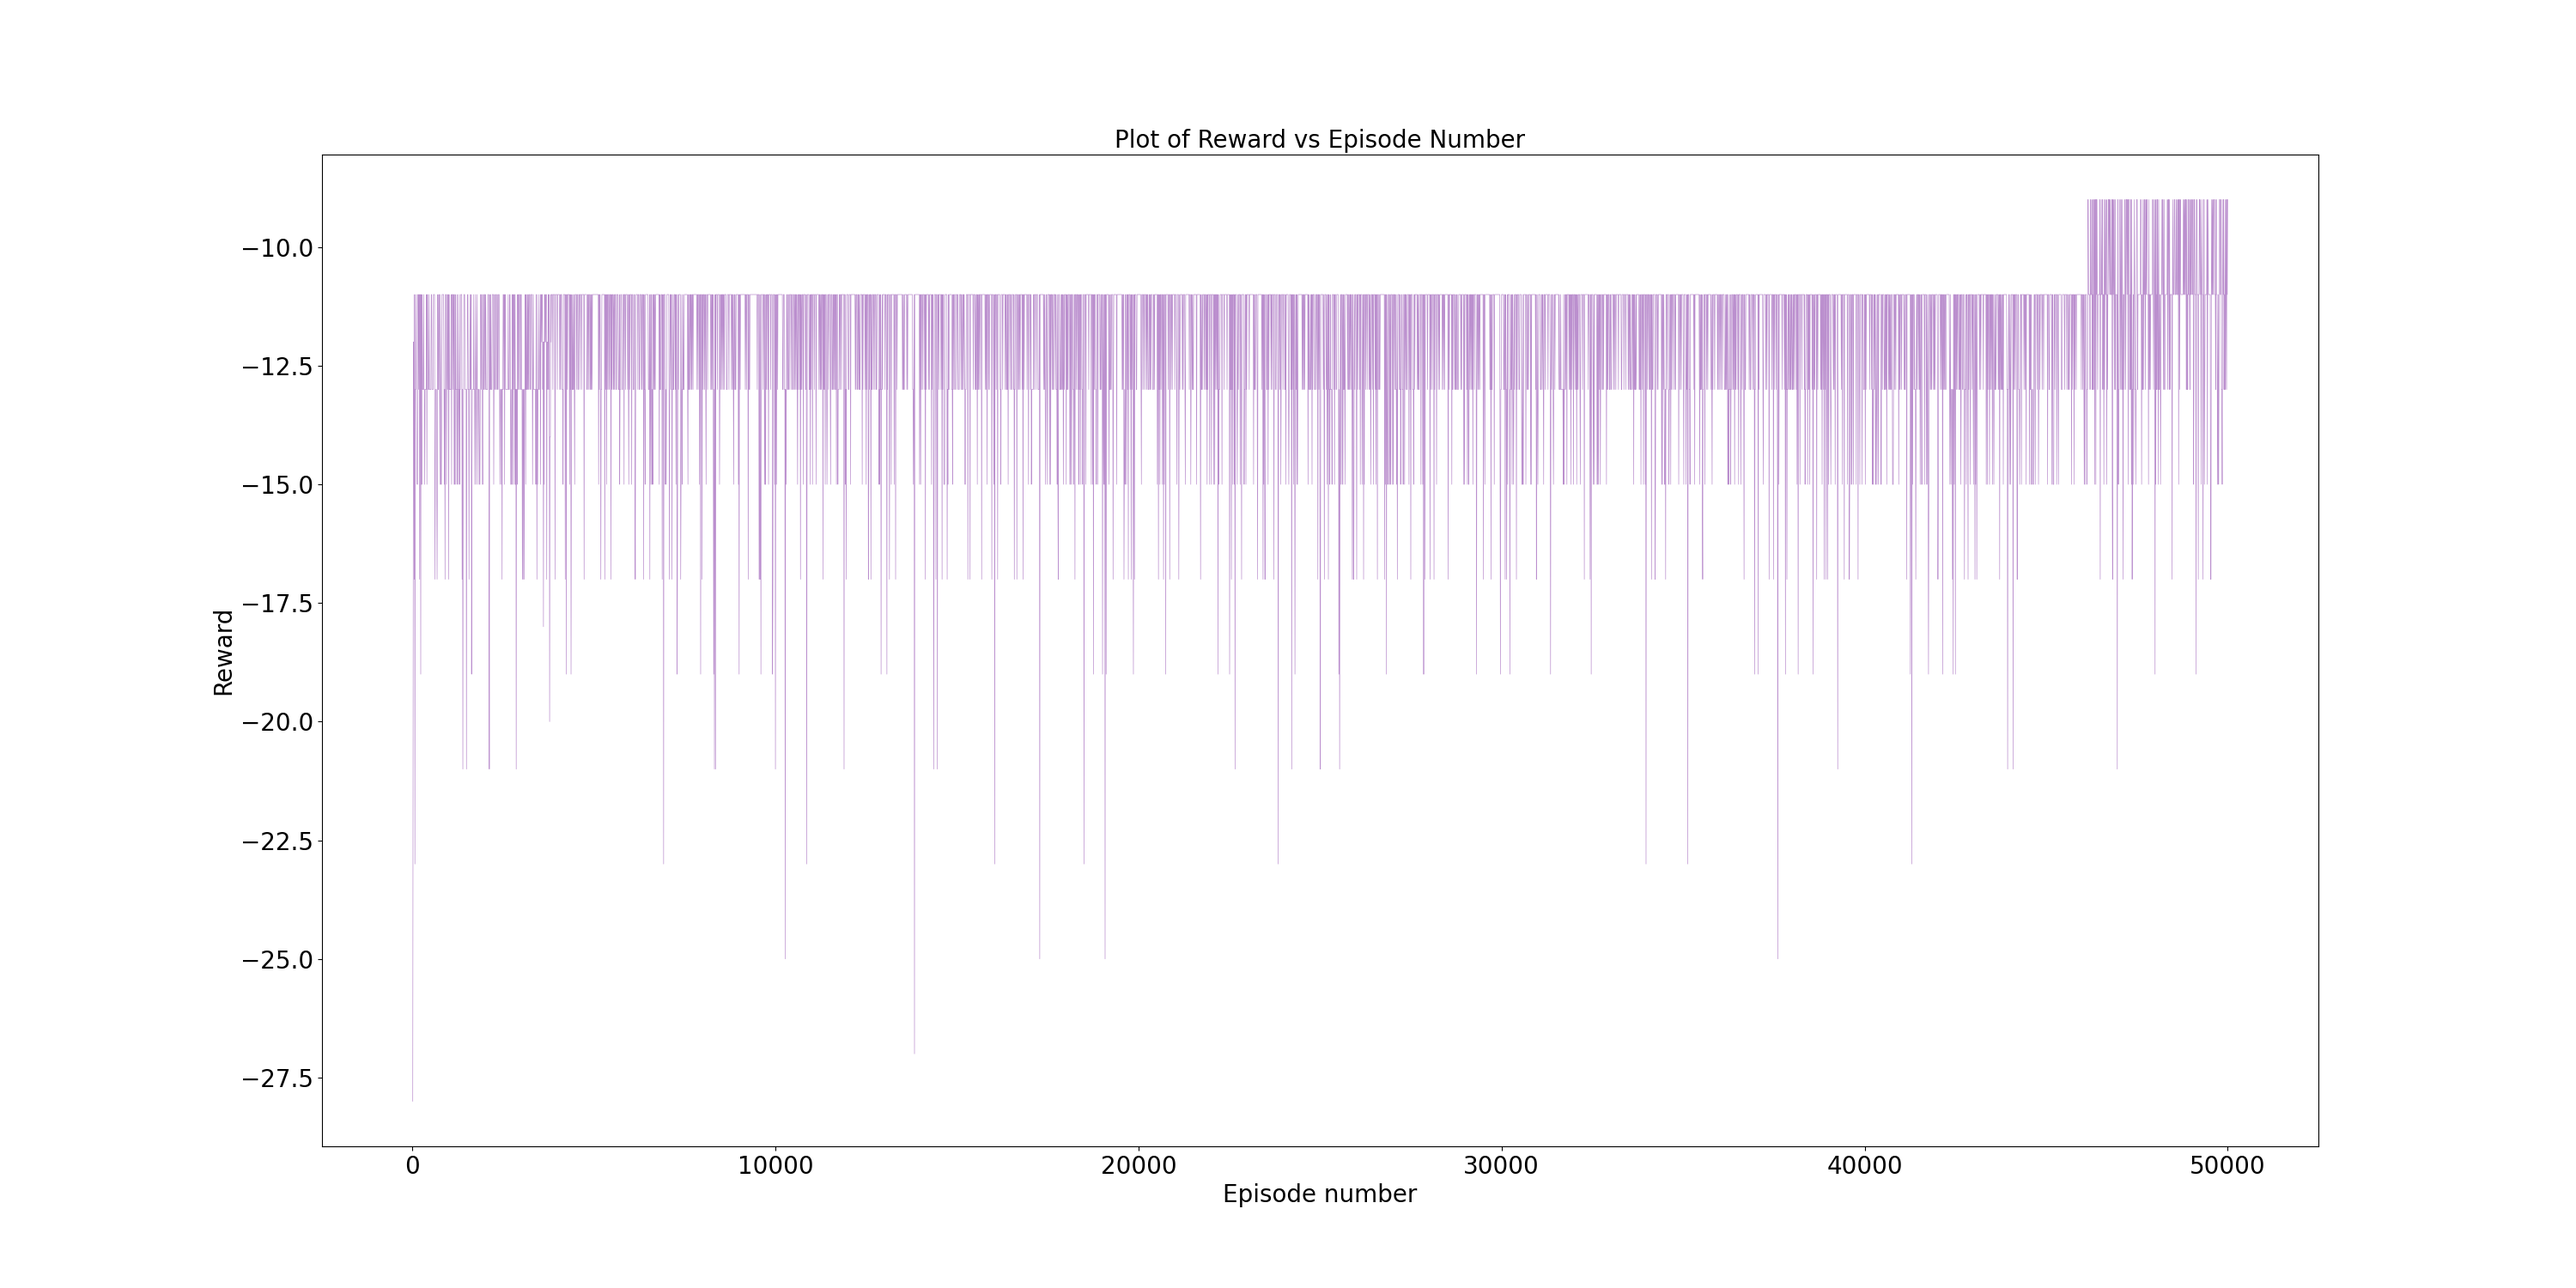
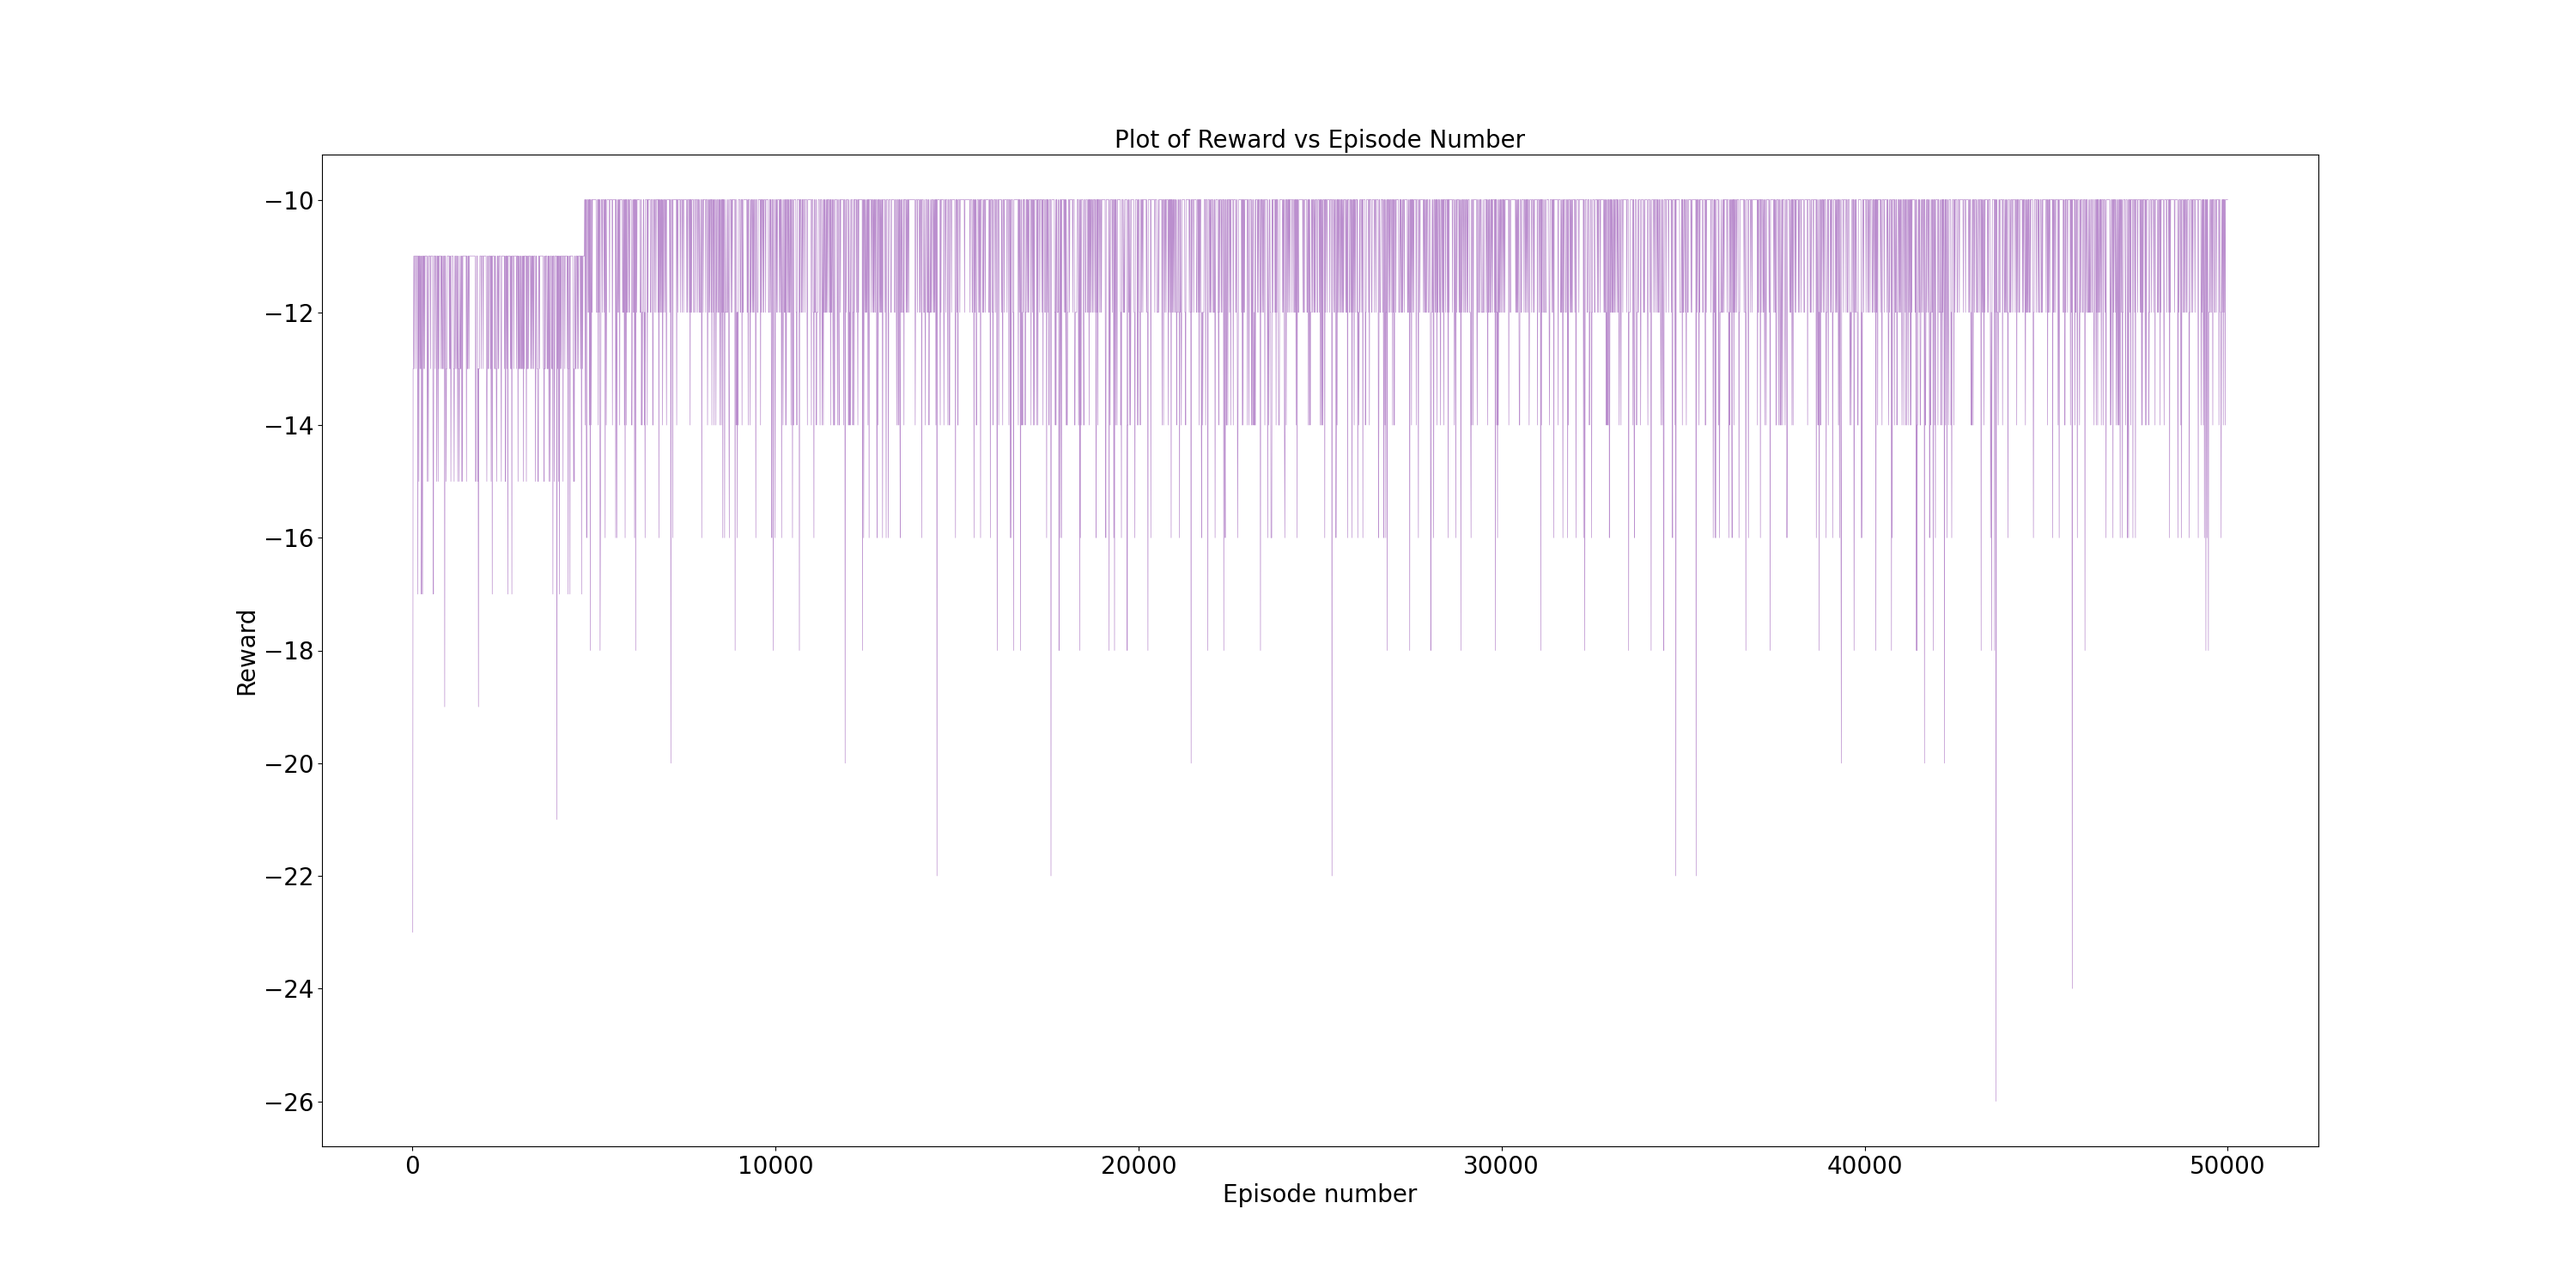
update on policy

diff --git a/RaceTrack Example/race_track.py b/RaceTrack Example/race_track.py
@@ -1,5 +1,7 @@
-import os
 import logging
+import os
+import pickle
+import sys
 from datetime import datetime
 
 import numpy as np
@@ -259,6 +261,8 @@ class Agent:
         for idx, possible_action in enumerate(actions):
             new_velocity = np.add(velocity, possible_action)
             if (new_velocity[0] <= 5 and new_velocity[0] >=0) and (new_velocity[1] <=5 and new_velocity[1] >= 0):
+                if new_velocity[0] == 0 and new_velocity[1] == 0:
+                    continue
                 indices_of_valid_acts.append(idx)
         indices_of_valid_acts = np.array(indices_of_valid_acts)
         return indices_of_valid_acts
@@ -410,11 +414,11 @@ class OffPolicyMonteCarloControl:
         self.data.save_rewards(on_or_off)
 
     def control(self, env, agent):
-        """Performs MC control using episode list"""
+        """Performs Off Policy MC control using episode list"""
         env.reset()
-        state= env.start()
+        state = env.start()
         self.data.episode["S"].append(state)
-        rew = - 1
+        rew = -1
         while rew is not None:
             action = agent.get_action(state, self.generate_behavioural_policy_action)
             rew, state = env.step(state, action)
@@ -435,6 +439,7 @@ class OffPolicyMonteCarloControl:
             self.data.C_vals[SA] += W
             self.data.Q_vals[SA] += (W * (G - self.data.Q_vals[SA])) / (self.data.C_vals[SA])
             self.data.policy[S_t] = np.argmax(self.data.Q_vals[S_t])
+
             if A_t != self.data.policy[S_t]:
                 break
             W /= self.data.episode["probs"][t]
@@ -456,9 +461,51 @@ class OnPolicyMonteCarloControl:
     def __init__(self, data):
         """Initialize for all states, actions, etc."""
         self.data = data
+        self.data.count_sa_for_average = np.zeros((26, 13, 6, 6, 9), dtype="float64")
+        for i in range(26):
+            for j in range(13):
+                if self.data.racetrack[i, j] != -1:
+                    for k in range(6):
+                        for l in range(6):
+                            self.data.policy[i, j, k, l] = np.argmax(self.data.Q_vals[i, j, k, l])
+
+    def determine_probability_behaviour(self, state, action, possible_actions):
+        best_action = self.data.policy[tuple(state)]
+        num_actions = len(possible_actions)
+
+        if best_action in possible_actions:
+            if action == best_action:
+                prob = 1 - self.data.epsilon + self.data.epsilon / num_actions
+            else:
+                prob = self.data.epsilon / num_actions
+        else:
+            prob = 1 / num_actions
+
+        self.data.episode["probs"].append(prob)
+
+    def generate_target_policy_action(self, state, possible_actions):
+        """Returns target policy action; takes state and return an action
+        using this policy.
+        """
+        if self.data.policy[tuple(state)] in possible_actions:
+            action = self.data.policy[tuple(state)]
+        else:
+            action = np.random.choice(possible_actions)
+
+        self.determine_probability_behaviour(state, action, possible_actions)
+
+        return action
 
     def evaluate_target_policy(self):
-        pass
+        env.reset()
+        state = env.start()
+        self.data.episode["S"].append(state)
+        rew = -1
+        while rew is not None:
+            action = agent.get_action(state, self.generate_target_policy_action)
+            rew, state = env.step(state, action)
+
+        self.data.rewards.append(sum(self.data.episode["R"][1:]))
 
     def save_your_work(self, on_or_off="on"):
         self.data.save_Q_vals(on_or_off)
@@ -467,7 +514,45 @@ class OnPolicyMonteCarloControl:
         self.data.save_rewards(on_or_off)
 
     def control(self, env, agent):
-        pass
+        """Performs On Policy MC control using episode list"""
+        env.reset()
+        state = env.start()
+        self.data.episode["S"].append(state)
+        rew = -1
+        while rew is not None:
+            action = agent.get_action(state, self.generate_target_policy_action)
+            rew, state = env.step(state, action)
+
+        G = 0
+        T = env.step_count
+
+        # pickle.dump(self.data.episode, open("episode.obj", "wb"))
+        for t in range(T - 1, -1, -1):
+            G = data.gamma * G + self.data.episode["R"][t + 1]
+            S_t = tuple(self.data.episode["S"][t])
+            A_t = agent.map_to_one_dimension(self.data.episode["A"][t])
+
+            S_list = list(S_t)
+            S_list.append(A_t)
+            SA = tuple(S_list)
+
+            # while not ((list(self.data.episode["S"][-1]) == list(S_t)) and (agent.map_to_one_dimension(self.data.episode["A"][-1]) == A_t)):
+            for S, A in zip(self.data.episode["S"], self.data.episode["A"]):
+
+                if (list(S) == list(S_t)) and (agent.map_to_one_dimension(A) == A_t):
+                    break
+                self.data.C_vals[SA] += G
+                self.data.count_sa_for_average[SA] += 1
+                self.data.Q_vals[SA] = self.data.C_vals[SA] / self.data.count_sa_for_average[SA]
+
+                best_action = np.argmax(self.data.Q_vals[S_t])
+                possible_actions = agent.get_indices_of_valid_actions(S_t[2:4])
+                num_actions = len(possible_actions)
+
+                if A_t == best_action:
+                    self.data.policy[S_t] = 1 - self.data.epsilon + self.data.epsilon / num_actions
+                else:
+                    self.data.policy[S_t] = self.data.epsilon / num_actions
 
     def plot_rewards(self):
         ax, fig = plt.subplots(figsize=(30, 15))
@@ -530,7 +615,9 @@ def run_on_policy_monte_carlo():
 
     for i in range(NUM_OF_EPISODES_TO_RUN_ON_POLICY):
         logger.info(f"{datetime.now().strftime('%Y-%m-%d_%H-%M-%S')} Episode: {i + 1}")
+        print(f"Episode: {i + 1}")
         on_mcc.control(env, agent)
+        print("here")
         if i % 10 == 9:
             on_mcc.evaluate_target_policy()
 
